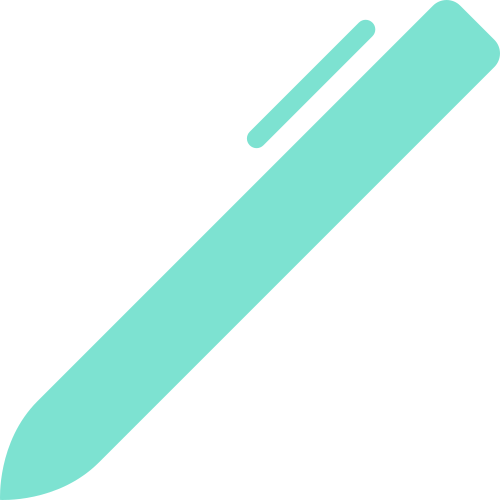
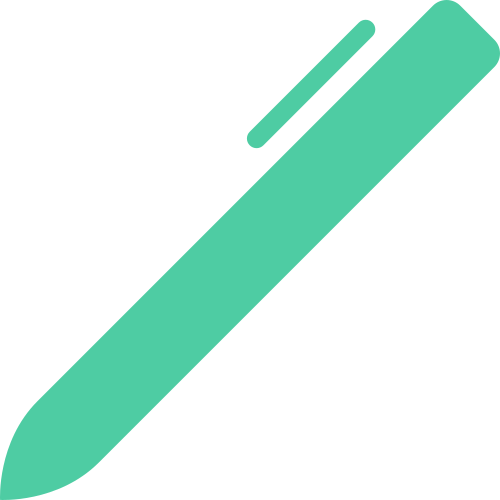
header

Changed region(s): [[0.0, 0.0, 1.0, 1.0], [0.48, 0.03, 0.75, 0.3]]

diff --git a/new-site/assets/css/index.css b/new-site/assets/css/index.css
@@ -4,6 +4,10 @@
 
 /* Classes */
 
+.logo{
+    display: inline-block;
+}
+
 .logo img{
     margin: 25px;
     width: 75px;
@@ -13,19 +17,33 @@
 
 .logo span{
     display: inline;
-    vertical-align: middle;
-    color: #7de2d1;
+    vertical-align: middle;;
     font-size: 28px;
+}
+
+.navigation{
+    float: right;
+    cursor: default;
+    margin: 40px 40px 0px 0px;
+}
+
+.navigation a{
+    color: #4ecca3;
+    text-decoration: none;
+    font-size: 24px;
+    margin: 20px;
 }
 
 /* Tags */
 
 body{
     margin: 0px;
+    background: #393e46;
 }
 
 header{
-    background: #339989;
+    background: #232931;
+    color: #4ecca3;
 }
 
 /* Other */

diff --git a/new-site/index.html b/new-site/index.html
@@ -37,6 +37,7 @@
       </script>
     <!-- Imports -->
     <link rel='stylesheet' href='assets/css/index.css'/>
+    <link rel='stylesheet' href='assets/css/animations.css'/>
     <!-- Fonts -->
     <link rel="preconnect" href="https://fonts.gstatic.com">
     <link href="https://fonts.googleapis.com/css2?family=PT+Sans&display=swap" rel="stylesheet">
@@ -51,8 +52,11 @@
         </span>
       </section>
 
-      <section>
-
+      <section class='navigation'>
+        <a href='#'>Home</a>
+        <a href='#'>About</a>
+        <a href='#'>Software</a>
+        <a href='#'>Extras</a>
       </section>
     </header>
 

diff --git a/new-site/important-stuff.md b/new-site/important-stuff.md
@@ -1,0 +1,3 @@
+# Important Stuff
+## Color Palette
+https://colorhunt.co/palette/117601
